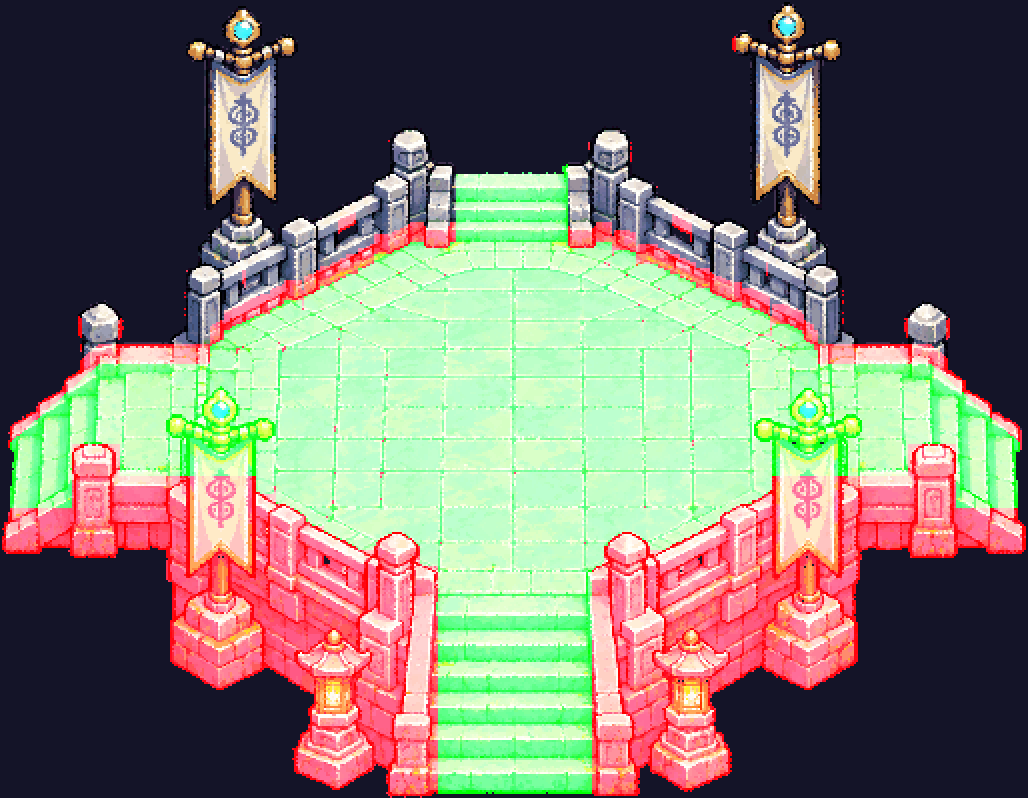
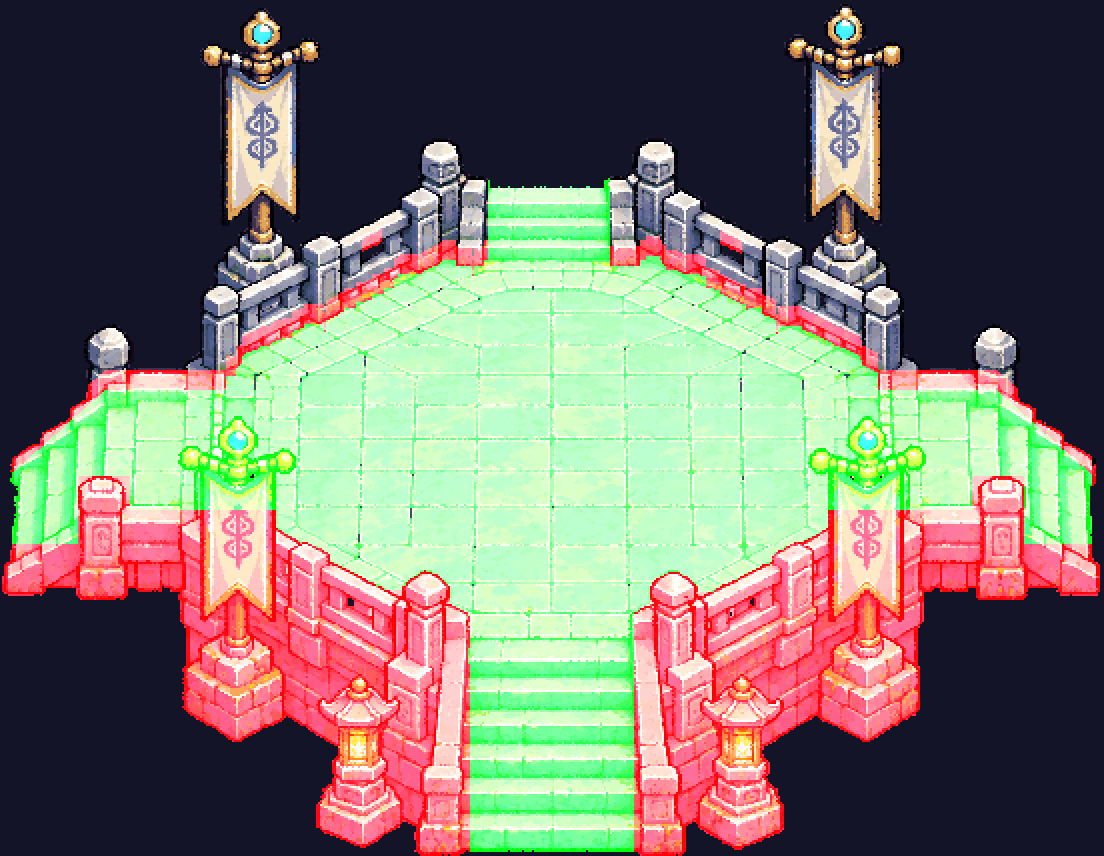
M8-02m: be phap dai to them chut (scale 2.1), vong thien kiep sanh 86, nan goc 10 px

Changed region(s): [[0.0, 0.0, 1.0, 1.0]]

diff --git a/src/data/sect_plaza.js b/src/data/sect_plaza.js
@@ -1,4 +1,4 @@
 // SINH TỰ ĐỘNG bởi tools/build_be_phap_dai.py — đừng sửa tay. Bệ Tụ Linh Pháp Đài (sprites/tm_be*.png).
 // anchor: tâm mặt sàn trong sprite (= tâm bản đồ). rows: lưới ô 16 px quanh tâm, ô (x0 + i, y0 + j); "#" đặc, "." sàn/bậc, " " ngoài.
 // fine: lưới mịn `cell` px tính từ góc trên-trái sprite lùi `pad` px (sprite đặt tại tâm bản đồ - anchor, làm tròn) — "#" đặc; dùng cho di chuyển.
-export const PLAZA = {"scale": 1, "anchor": [257.6333333333333, 204.4777777777778], "banners": [[88.2, 0.0, 155.7, 135.1, 135.1], [365.5, 0.0, 424.5, 135.1, 135.1], [79.6, 190.6, 140.8, 335.6, 335.6], [384.0, 190.6, 445.2, 335.6, 335.6]], "x0": -17, "y0": -13, "rows": ["                                  ", "                                  ", "                                  ", "                                  ", "                                  ", "               ....               ", "               ....               ", "             ##....## #           ", "           #.........##           ", "        ##.............##         ", "       #... ..............#       ", "   ####...................#####   ", "  #............................   ", " #..............................# ", " ..##........................##.. ", "#..######................######.. ", "###########............########## ", "##############......############# ", "     ##########....#########      ", "      #########....#########      ", "      #########....#########      ", "      #########....#########      ", "          #####....#####          ", "         ######....#####          ", "         ######....#####          ", "          #####....#####          "], "cell": 4, "pad": 8, "fine": [".....................................................................................................................................", ".....................................................................................................................................", ".....................................................................................................................................", ".....................................................................................................................................", ".....................................................................................................................................", ".....................................................................................................................................", ".....................................................................................................................................", ".............................................................................................#.......................................", ".....................................................................................................................................", ".....................................................................................................................................", ".....................................................................................................................................", ".....................................................................................................................................", ".....................................................................................................................................", ".....................................................................................................................................", ".....................................................................................................................................", ".....................................................................................................................................", ".....................................................................................................................................", ".....................................................................................................................................", ".....................................................................................................................................", ".....................................................................................................................................", ".....................................................................................................................................", ".....................................................................................................................................", ".....................................................................................................................................", ".....................................................................................................................................", ".....................................................................................................................................", ".....................................................................................................................................", ".....................................................................................................................................", ".....................................................................................................................................", "............................................###.......................................##.............................................", "............................................###.......................................###............................................", "............................................##......#######..............######.......###............................................", ".................................................##########..............#########......#............................................", "................................................######.####..............####.######.................................................", "..............................................######..........................#.######...............................................", "............................................#####................................########............................................", "................................#.........######....................................#######..........................................", "................................#.......######.........................................#####.........................................", "................................#....#######.............................................######......................................", "...................................#######.................................................#######...................................", ".................................#######.....................................................#####...................................", "..............................#######..........................................................#######...............................", "..............................#####...............................................................#####..............................", ".................#..........####..................................................................######...........#....#............", ".................#..........##....................................................................#...##...........#....#............", "............................##........................................................................##.............................", "..............###############........#..................................................................###############..............", "............################............................................................................################.............", "............################............................................................................#################............", "...........###.........................................................................................................##............", "..........##............................................................................................................###..........", "..........#..............................................................................................................##..........", "........##.................................................................................................................##........", ".......##...................................................................................................................##.......", "......##.....................................................................................................................##......", "....###.......................................................................................................................###....", "...###.........................................................................................................................###...", "...##...........................................................................................................................##...", "...#.......######...................................................................................................#####........#...", "...........######..................................................................................................#######...........", "...........######..................................................................................................#######...........", "...........######..................................................................................................#######...........", "...........#######################.................................................................#######################...........", "...........#######################................................................................########################...........", "...........########################.#.............................................................########################...........", "..#........##########################...........................................................##########################.......##..", "..#####################################......................................................######################################..", "..######################################....................................................#######################################..", "..#######################################..................................................########################################..", "..#########################################........#............................#........##########################################..", "..###########################################....#####........................#####....############################################..", "..#############################################.#######......................#######.##############################################..", "..#####################################################......................######################################################..", "..#################..##################################......................###################################..#################..", ".....................####################################...................###################################......................", ".....................####################################...................###################################......................", ".....................####################################...................###################################......................", "......................###################################...................###################################......................", "......................###################################...................###################################......................", "......................###################################...................###################################......................", "......................###################################...................###################################......................", "......................###################################...................###################################......................", "......................###################################...................###################################......................", "......................###################################...................###################################......................", "......................###################################...................###################################......................", "......................###################################...................###################################......................", "......................###################################...................###################################......................", "......................###################################...................###################################......................", "........................#################################...................#################################........................", ".........................#########..#####################...................####################..#########..........................", "...........................#####......###################...................##################......#####............................", ".......................................##################...................#################........................................", ".......................................##################...................#################........................................", "......................................###################...................##################.......................................", ".....................................####################...................###################......................................", ".....................................####################...................###################......................................", ".....................................####################...................###################......................................", ".....................................####################...................###################......................................", ".....................................####################...................###################......................................", ".....................................####################...................###################......................................", ".....................................####################...................###################......................................", "......................................###################...................###################......................................", "........................................#######..########...................################.........................................", ".................................................#########................##########..####...........................................", "..................................................######............................................................................."]};
+export const PLAZA = {"scale": 1, "anchor": [275.99999999999994, 218.26190476190473], "banners": [[94.5, 0.0, 166.9, 144.8, 144.8], [391.6, 0.0, 454.9, 144.8, 144.8], [85.3, 204.2, 150.9, 359.6, 359.6], [411.4, 204.2, 477.0, 359.6, 359.6]], "x0": -18, "y0": -14, "rows": ["                                    ", "                                    ", "                                    ", "                                    ", "                                    ", "                                    ", "                ....                ", "            #   ....   #            ", "             ###....###             ", "           ##..........##           ", "         ##..............##         ", "        ....................        ", "   #####....................#####   ", "   ..............................#  ", " #................................# ", " ..##..........................##.. ", " ..######..................######.. ", "###########..............###########", "############.##......#..############", "###############......###############", "      #########......#########      ", "      #########......#########      ", "      #########......#########      ", "       ########......########       ", "          #####......#####          ", "          #####......#####          ", "          #####......#####          ", "           ####......####           "], "cell": 4, "pad": 8, "fine": ["..............................................................................................................................................", "..............................................................................................................................................", "..............................................................................................................................................", "..............................................................................................................................................", "..............................................................................................................................................", "..............................................................................................................................................", "..............................................................................................................................................", "..............................................................................................................................................", "..............................................................................................................................................", "..............................................................................................................................................", "..............................................................................................................................................", "..............................................................................................................................................", "..............................................................................................................................................", "..............................................................................................................................................", "..............................................................................................................................................", "..............................................................................................................................................", "..............................................................................................................................................", "..............................................................................................................................................", "..............................................................................................................................................", "..............................................................................................................................................", "..............................................................................................................................................", "..............................................................................................................................................", "..............................................................................................................................................", "..............................................................................................................................................", "..............................................................................................................................................", "..............................................................................................................................................", "..............................................................................................................................................", "..............................................................................................................................................", "..............................................................................................................................................", "..............................................................................................................................................", "................................................##..........................................##................................................", "...............................................###.................................#........###...............................................", "...............................................###......###...#...................###.......###...............................................", "......................................................#########...............##########......#...............................................", "...................................................############...............#####.######....................................................", "..................................................######.....#.......................#######..................................................", "................................................####.....................................####.................................................", "..............................................#####.......................................#####...............................................", "............................................######..........................................######............................................", "...........................................#####.............................................######...........................................", ".......................................#######.................................................########.......................................", "......................................######.....................................................########.....................................", "...................................########........................................................########...................................", ".................................######................................................................######.................................", "................................######...................................................................#####................................", "...............................####........................................................................####...............................", "..............................###............................................................................###..............................", "..............................##..............................................................................##..............................", "...............#################...............................................................................################...............", ".............#################..................................................................................################..............", ".............#################..................................................................................#################.............", ".............##................................................................................................................###............", "...........##...................................................................................................................###...........", "...........#.....................................................................................................................###..........", "..........#........................................................................................................................#..........", "........##..........................................................................................................................##........", ".......##............................................................................................................................##.......", "......##..............................................................................................................................##......", "....###................................................................................................................................###....", "...###..................................................................................................................................###...", "...#.....................................................................................................................................##...", "............######..........................................................................................................######........#...", "............######.........................................................................................................#######........#...", "............######.........................................................................................................#######............", "............######.........................................................................................................#######............", "............#######........................................................................................................#######............", "............#########################....................................................................#########################............", "............#########################....................................................................#########################............", "..#.........##########################..................................................................##########################.........#..", "..#.........############################..............................................................############################........##..", "..########################################..........................................................########################################..", "..#########################################.......................................................##########################################..", "..##########################################.....................................................###########################################..", "..############################################........##.............................##........#############################################..", "..##############################################.....#####..........................#####....###############################################..", "..################################################..######.........................######..#################################################..", "..########################################################.........................#########################################################..", "..#######.#################################################........................#################################################.#######..", "..........#########....#####################################.....................######################################....#########..........", ".......................######################################....................######################################.......................", ".......................######################################....................######################################.......................", ".......................######################################....................######################################.......................", "........................#####################################....................#####################################........................", ".......................######################################....................######################################.......................", ".......................######################################....................######################################.......................", ".......................######################################....................######################################.......................", ".......................######################################....................######################################.......................", ".......................######################################....................######################################.......................", ".......................######################################....................######################################.......................", ".......................######################################....................######################################.......................", ".......................######################################....................######################################.......................", ".......................######################################....................######################################.......................", "........................#####################################....................#####################################........................", ".........................####################################....................####################################.........................", "...........................##########.#######################....................######################..##########...........................", "............................#######.....#####################....................#####################.....#######............................", "..........................................###################....................###################..........................................", "..........................................###################....................###################..........................................", ".........................................####################....................###################..........................................", ".........................................####################....................####################.........................................", "........................................#####################....................####################.........................................", "........................................#####################....................#####################........................................", "........................................#####################....................#####################........................................", "........................................#####################....................#####################........................................", "........................................#####################....................#####################........................................", "........................................#####################....................#####################........................................", "........................................#####################....................#####################........................................", ".........................................####################....................####################.........................................", "...........................................########.#########....................##################...........................................", ".............................................####...##########..................#########...#####.............................................", ".....................................................########...................#########....................................................."]};

diff --git a/src/data/sect_layout.js b/src/data/sect_layout.js
@@ -8,8 +8,8 @@
 export const SECT = {
   W: 88, H: 64, PAD: 10,
   // Tụ Linh Pháp Đài: sprite bệ đá nâng cao ChatGPT vẽ (sprites/tm_be*.png), va chạm sinh sẵn ở data/sect_plaza.js
-  // (tools/build_be_phap_dai.py). Bệ chiếm ~x 28–60, y 19–44; 4 lối lên: bắc (chân y ~24), bậc nam (chân y ~44),
-  // cánh tây (chân x ~28, y 33–35), cánh đông (chân x ~60, y 33–35)
+  // (tools/build_be_phap_dai.py). Bệ chiếm ~x 27–61, y 18–45; 4 lối lên: bắc (chân y ~24), bậc nam (chân y ~45),
+  // cánh tây (chân x ~27, y 33–35), cánh đông (chân x ~61, y 33–35)
   PATH_W: 3,                    // bề rộng đường lát đá (ô)
   // 5 công trình có chức năng (cửa = điểm đứng tương tác, ngay dưới bậc thềm)
   BUILDINGS: [
@@ -27,10 +27,10 @@ export const SECT = {
     [[44, 24], [44, 10]],                         // lối bắc của bệ → cổng bí cảnh
     [[44, 15], [30, 15], [20, 17]],               // rẽ tây → Truyền Thừa Các
     [[44, 15], [58, 15], [68, 17]],               // rẽ đông → Luyện Khí Phường
-    [[44, 44], [44, 55]],                         // chân bậc nam → vườn bia
+    [[44, 45], [44, 55]],                         // chân bậc nam → vườn bia
     [[44, 51], [30, 51], [18, 49]],               // chân bậc nam → tây → Công Đức Đường
-    [[28.5, 34], [13, 33]],                         // cánh tây → Tàng Kinh Các
-    [[59.5, 34], [75, 33]],                         // cánh đông → Đan Dược Phòng
+    [[27.5, 34], [13, 33]],                         // cánh tây → Tàng Kinh Các
+    [[60.5, 34], [75, 33]],                         // cánh đông → Đan Dược Phòng
     [[44, 51], [58, 51], [62, 43], [68.5, 42.5]], // chân bậc nam → đông → cổng rào Luyện Võ Trường
     [[18, 49], [22, 53], [27.5, 57], [27.5, 63]], // Công Đức Đường → cầu đá qua suối
   ],

diff --git a/src/main.js b/src/main.js
@@ -374,11 +374,11 @@ function movePlayer(map, dt, speedMult) {
   if (Math.abs(dx) > Math.abs(dy)) { p.face = 'side'; p.flip = dx < 0; } else p.face = dy < 0 ? 'up' : 'down';
   const sx = dx * PLAYER.SPEED * speedMult * dt, sy = dy * PLAYER.SPEED * speedMult * dt, x0 = p.x, y0 = p.y;
   moveEntity(map, p, sx, sy, null);
-  // M8: sảnh tông môn — nắn góc: giữ một hướng mà bị chặn, nếu lệch ngang ≤ 6 px là đi tiếp được (mép bậc dốc ở cánh bệ,
+  // M8: sảnh tông môn — nắn góc: giữ một hướng mà bị chặn, nếu lệch ngang ≤ 10 px là đi tiếp được (mép bậc dốc ở cánh bệ,
   // góc trụ) thì trượt về phía đó; đâm thẳng vào tường phẳng thì đứng yên (không trôi dọc tường)
   if (map.sect && p.x === x0 && p.y === y0 && (!sx || !sy)) {
     const s = Math.abs(sx || sy);
-    found: for (let d = 1; d <= 6; d++) for (const k of [1, -1]) {
+    found: for (let d = 1; d <= 10; d++) for (const k of [1, -1]) {
       const ox = sx ? 0 : k * d, oy = sx ? k * d : 0;
       if (map.canStand(p.x + ox, p.y + oy) && map.canStand(p.x + ox + sx, p.y + oy + sy)) {
         const st = Math.min(d, s); p.x += sx ? 0 : k * st; p.y += sx ? k * st : 0;

diff --git a/src/core/config.js b/src/core/config.js
@@ -196,7 +196,7 @@ export const REWARD = {
 export const TRIBULATION = {
   ENABLED: true,             // false = quay về lôi kiếp xổ số cũ (REALM.MAJOR_CHANCE) — đường rollback
   ARENA_R: 96,               // trận thử thách quanh tụ linh trận; người chơi bị giữ trong vòng
-  SECT_ARENA_R: 80,          // M8: sảnh tông môn — vòng vừa mặt sàn bệ pháp đài (bệ thu nhỏ 14/11, người phát triển chọn thu vòng theo)
+  SECT_ARENA_R: 86,          // M8: sảnh tông môn — vòng vừa mặt sàn bệ pháp đài (bệ thu nhỏ 14/11, người phát triển chọn thu vòng theo)
   PHASES: [
     { name: 'Lôi ấn',   kind: 'marks', dur: 8, every: 1.1, n: 3, r: 22, windup: 1.2, dmg: 0.16 },
     { name: 'Lôi xà',   kind: 'lines', dur: 8, every: 1.5, lines: 2, w: 16, windup: 1.2, dmg: 0.18 },

diff --git a/tools/build_be_phap_dai.py b/tools/build_be_phap_dai.py
@@ -21,7 +21,7 @@ from PIL import Image, ImageDraw, ImageFilter
 
 ROOT = Path(__file__).resolve().parent.parent
 LUM_MIN, OPEN_R = 80, 3         # loang: điểm sáng hơn LUM_MIN; mở hình thái bán kính OPEN_R
-CLEAN = 2.25                    # độ thu sprite_clean (14/11: cỡ vừa, giữa bản 2.85 quá nhỏ và 1.78 quá to)
+CLEAN = 2.1                     # độ thu sprite_clean (14/11: cỡ vừa, to hơn bản 2.25 một chút)
 K = 1.9 / CLEAN                 # số đo tay dưới đây làm trên bản 1.9; nhân K cho bản CLEAN
 k1 = lambda v: tuple(round(c * K, 1) for c in v)
 MIRROR = 609 * K                # trục đối xứng x' = MIRROR - x
@@ -133,6 +133,12 @@ def main():
         y1 = min(y + oy_, key[y, x] - 2)
         if y1 >= y: occ[PAD + y:PAD + y1 + 1, PAD + max(0, x - ox_):PAD + x + ox_ + 1] = True
     solidP |= occ & ~fl
+    # bỏ mẩu đặc lẻ nhỏ (< 60 px, vd chân má bậc cánh sau khi thu nhỏ) — chặn đường vô lý giữa lối đi
+    seen = np.zeros_like(solidP)
+    for y0, x0 in zip(*np.where(solidP)):
+        if seen[y0, x0]: continue
+        comp = flood(solidP & ~seen, (x0, y0)); seen |= comp
+        if comp.sum() < 60: solidP &= ~comp
     solid = solidP[PAD:PAD + H, PAD:PAD + W]
     # lưới mịn C px tính từ góc sprite lùi PAD + lưới ô 16 px quanh tâm (cho test)
     HP, WP = solidP.shape; fw, fh = (WP + C - 1) // C, (HP + C - 1) // C

diff --git a/TASKS_TU_TIEN_LO.md b/TASKS_TU_TIEN_LO.md
@@ -379,6 +379,7 @@ Thiết kế + backlog đầy đủ (ChatGPT, 13/11): **`docs/chatgpt_tong_mon_M
   - [x] M8-02j (14/11, xem thử) Bệ to ×1.6 so với bản 2.85 (`CLEAN = 1.78` trong `tools/build_be_phap_dai.py`, 650×505); mặt sàn lại chứa vòng thiên kiếp 96 px nên `SECT_ARENA_R` = 96 (như động phủ cũ); đường đi dời vào chân 4 lối; 204/204; ảnh `docs/playtest/M8_02j_be_x16.png`
   - [x] M8-02k (14/11) Bệ chốt cỡ ×1.55 so với bản 2.85 (`CLEAN = 1.84`, 628×488); mặt sàn chứa vòng ~85 px → `SECT_ARENA_R` = 88; 204/204; phím thật: tâm → Tàng Kinh / Đan Dược 6,3 s, bia 4,8 s, cổng 4,1 s; ảnh `docs/playtest/M8_02k_be_x155.png`
   - [x] M8-02l (14/11) Bệ cỡ vừa (`CLEAN = 2.25`, 514×399 — giữa bản 2.85 quá nhỏ và 1.78/1.84 quá to); `SECT_ARENA_R` = 80; test mép bệ tính vùng lối theo cỡ bệ; 204/204; phím thật: Tàng Kinh 6,2 s, Đan Dược 6,3 s, bia 4,3 s, cổng 4,1 s; ảnh `docs/playtest/M8_02l_be_vua.png`
+  - [x] M8-02m (14/11) Bệ to thêm chút (`CLEAN = 2.1`, 552×428); `SECT_ARENA_R` = 86; bỏ mẩu đặc lẻ < 60 px; nắn góc khi đi tới 10 px (mũi má bậc cánh đông); 204/204; phím thật: Tàng Kinh 6,2 s, Đan Dược 6,3 s, bia 4,3 s, cổng 4,1 s, đâm vách không trôi; ảnh `docs/playtest/M8_02m_be.png`
 - [ ] M8-03 Hệ thống tương tác công trình dùng chung (M, P0)
 - [ ] M8-04 Cổng Bí Cảnh (S, P0)
 - [ ] M8-05 Tụ Linh Pháp Đài (M, P0) → GATE M8-A

diff --git a/docs/playtest/M8_02b.md b/docs/playtest/M8_02b.md
@@ -95,3 +95,6 @@ Muốn đổi cỡ khác: sửa `CLEAN` rồi chạy `sprite_clean.py --scale CL
 
 ## M8-02l — bệ cỡ vừa (14/11)
 Người phát triển: muốn nhỏ lại, "vừa — đủ to nhưng không quá nhỏ" (1.55/1.6 là to lên). `CLEAN = 2.25` → 514×399 (giữa 408 và 650 px). Mặt sàn chứa vòng 77 px → `SECT_ARENA_R = 80`. Test mép bệ giờ tính vùng 4 lối theo `PLAZA.anchor` (đổi cỡ không phải sửa test). Đường đi nối vào 4 lối mới. 204/204. Ảnh `docs/playtest/M8_02l_be_vua.png`.
+
+## M8-02m — to thêm chút (14/11)
+`CLEAN = 2.1` → 552×428; mặt sàn chứa vòng 83 px → `SECT_ARENA_R = 86`. Build bỏ mẩu đặc lẻ < 60 px. Mũi má bậc cánh đông chặn đường đi thẳng (giữ D) → nắn góc trong `movePlayer` nới tới 10 px; đâm vách thẳng vẫn không trôi. 204/204. Ảnh `docs/playtest/M8_02m_be.png`.
